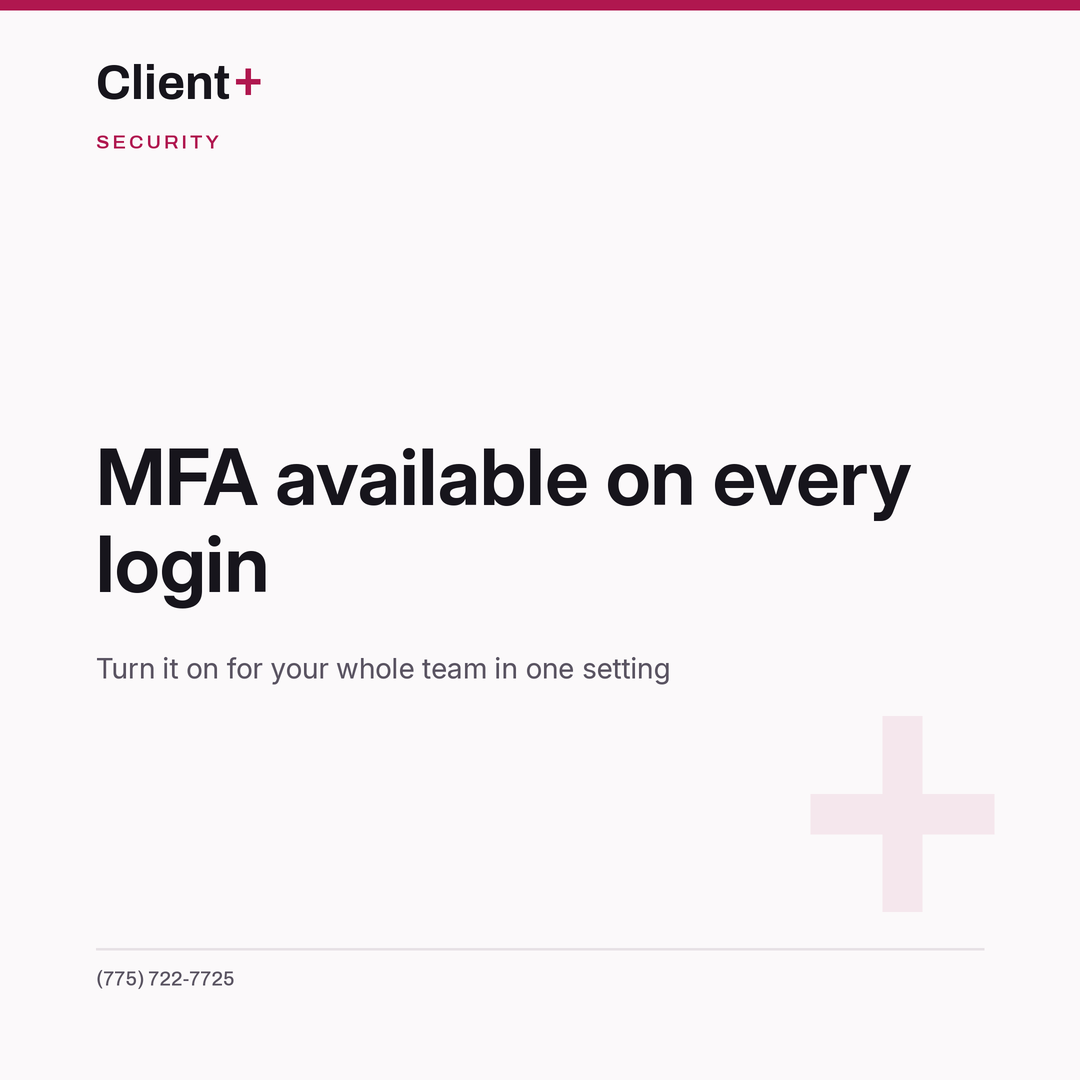
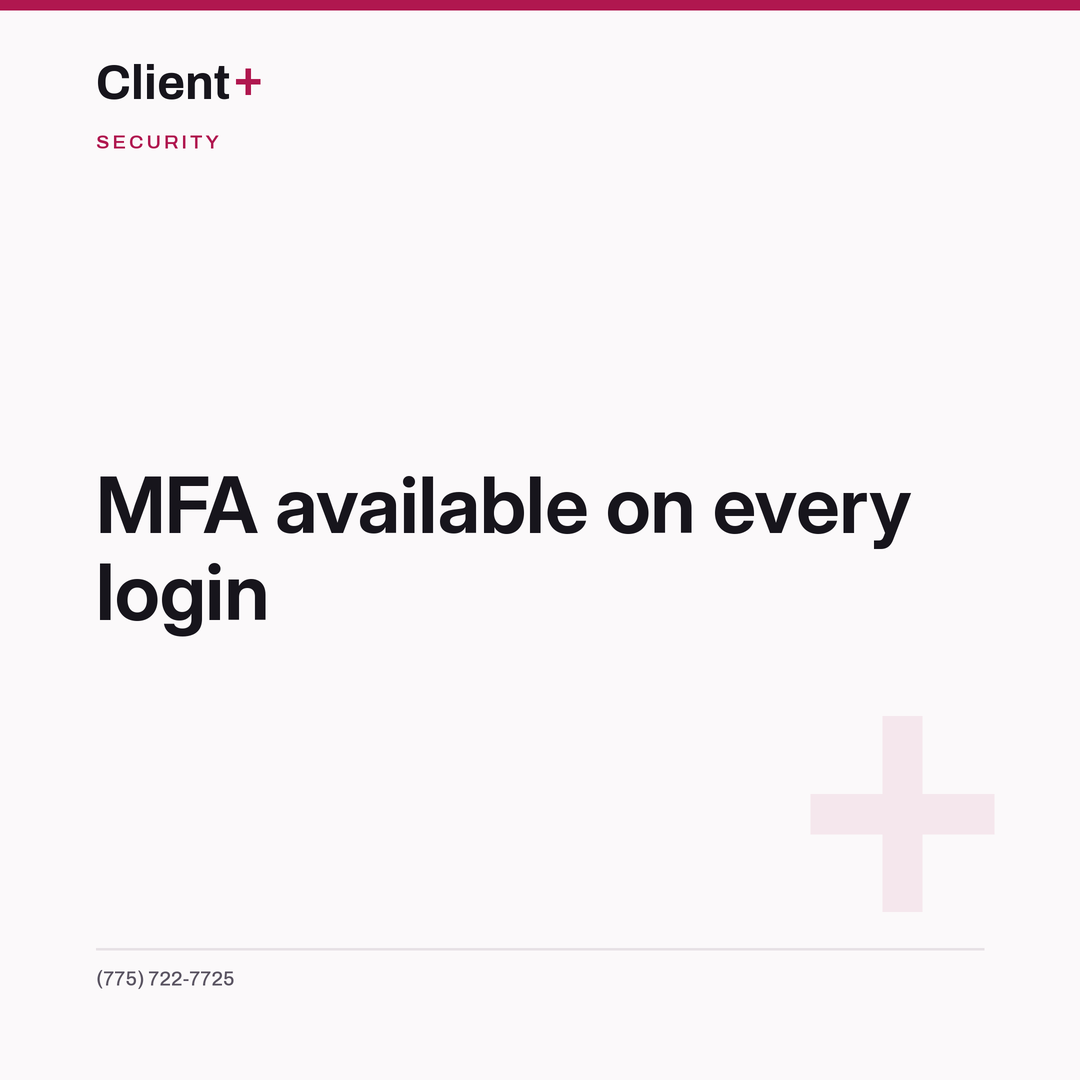
Social drafts: fix 12/3 MFA wording, no org-wide toggle
Replace the 12/3 claim that MFA can be turned on "for your whole
team in one setting." The post now uses: "MFA available on every
login, and once a staff member turns it on, client records stay
locked until they pass it." The card subline was too long for that
sentence, so the card shows only "MFA available on every login."
No other scheduled or batch-2 post made the org-wide claim.

Honesty:
- Docs and one image asset only. Nothing posted, boosted or spent.
- The 12/3 post is already scheduled; Cofounder needs to paste the
  new text and attach the updated card. Ads stay off until Ryan
  sets a daily budget.
- Does not say each staff member sets MFA up at first sign-in
  (that is sandbox-only). MFA is available, not required.
- Flat $10,000 per organization; trial, BAA, charter name guard,
  and no-HIPAA-in-copy rules unchanged.

Changed region(s): [[0.0917, 0.3972, 0.8556, 0.6417]]

diff --git a/docs/social/calendar-14day-DRAFT.md b/docs/social/calendar-14day-DRAFT.md
@@ -85,7 +85,7 @@
 - **Platform:** Both
 - **Suggested time:** LinkedIn 9:30 AM recipient-local; Facebook 12:00 PM PT
 - **Copy:**
-  > A stolen password shouldn't open your client files. Every Client+ login supports multi-factor authentication. Turn it on for your whole team in one setting.
+  > A stolen password shouldn't open your client files. Every Client+ login supports multi-factor authentication. MFA available on every login, and once a staff member turns it on, client records stay locked until they pass it.
   > Small nonprofits are targets too. Row-level security, and MFA available on every login. We will sign a business associate agreement before any real client data goes in.
 - **Image:** Phone showing a 6-digit code prompt next to a laptop login screen. Illustrative.
 - **Status:** APPROVED (Social sign-off per Ryan 11/19), ready to schedule
